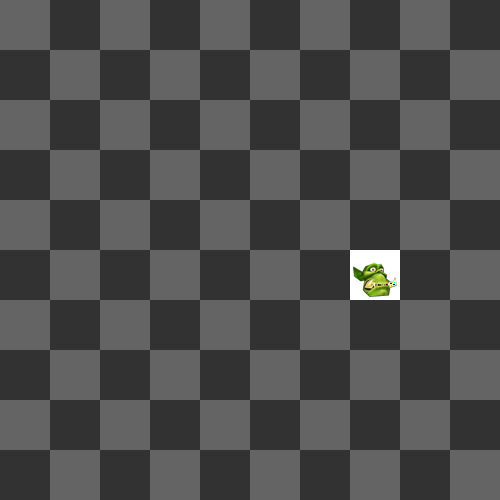
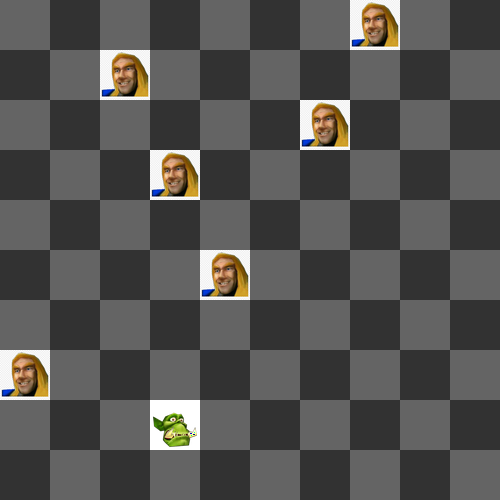
worked on drawing of the map

diff --git a/cmd/mapDrawer/mapDrawer.go b/cmd/mapDrawer/mapDrawer.go
@@ -2,39 +2,123 @@ package mapDrawer
 
 import (
 	"github.com/Frans-Lukas/checkerboard/cmd/constants"
+	"github.com/mattn/go-gtk/gdk"
+	"github.com/mattn/go-gtk/glib"
+	"github.com/mattn/go-gtk/gtk"
 	"github.com/nfnt/resize"
 	"image"
 	"image/color"
 	"image/draw"
 	"image/png"
 	"os"
+	"unsafe"
 )
 
 type MapInfo struct {
 	name string
 	draw.Image
+	gdkwin      *gdk.Window
+	drawingarea *gtk.DrawingArea
+	pixmap      *gdk.Pixmap
+	gc          *gdk.GC
 	sizeX       int
 	sizeY       int
-	playerImage image.Image
-	//clientImage draw.Image
 }
 
-func SetupMap(name string, sizeX int, sizeY int) MapInfo {
+func SetupMap(name string, sizeX int, sizeY int) *MapInfo {
 
 	newImage := image.NewRGBA(image.Rectangle{Min: image.Pt(0, 0), Max: image.Pt(sizeX, sizeY)})
 
-	f, err := os.Open(constants.PlayerImage)
-	if err != nil {
-		println("SetupMap: failed to load image: ", err.Error())
+	thisMap := MapInfo{name: name, Image: newImage, sizeX: sizeX, sizeY: sizeY}
+
+	///////////////////////////////////////////////////
+
+	gtk.Init(&os.Args)
+	window := gtk.NewWindow(gtk.WINDOW_TOPLEVEL)
+	window.SetTitle(name)
+	window.Connect("destroy", gtk.MainQuit)
+
+	vbox := gtk.NewVBox(true, 0)
+	vbox.SetBorderWidth(5)
+	thisMap.drawingarea = gtk.NewDrawingArea()
+
+	var p1, p2 gdk.Point
+	p1.X = -1
+	p1.Y = -1
+	colors := []string{
+		"black",
+		"gray",
+		"blue",
+		"purple",
+		"red",
+		"orange",
+		"yellow",
+		"green",
+		"darkgreen",
 	}
 
-	newPlayerImage, _, err := image.Decode(f)
-	newPlayerImage = resize.Resize(uint(sizeX/constants.MAP_SIZE), uint(sizeX/constants.MAP_SIZE), newPlayerImage, resize.Lanczos3)
-	if err != nil {
-		println("SetupMap: failed to decode image: ", err.Error())
-	}
+	thisMap.drawingarea.Connect("configure-event", func() {
+		if thisMap.pixmap != nil {
+			thisMap.pixmap.Unref()
+		}
+		allocation := thisMap.drawingarea.GetAllocation()
+		thisMap.pixmap = gdk.NewPixmap(thisMap.drawingarea.GetWindow().GetDrawable(), allocation.Width, allocation.Height, 24)
+		thisMap.gc = gdk.NewGC(thisMap.pixmap.GetDrawable())
+		thisMap.gc.SetRgbFgColor(gdk.NewColor("white"))
+		thisMap.pixmap.GetDrawable().DrawRectangle(thisMap.gc, true, 0, 0, -1, -1)
+		thisMap.gc.SetRgbFgColor(gdk.NewColor(colors[0]))
+		thisMap.gc.SetRgbBgColor(gdk.NewColor("white"))
+	})
 
-	return MapInfo{name: name, Image: newImage, sizeX: sizeX, sizeY: sizeY, playerImage: newPlayerImage}
+	thisMap.drawingarea.Connect("motion-notify-event", func(ctx *glib.CallbackContext) {
+		arg := ctx.Args(0)
+		mev := *(**gdk.EventMotion)(unsafe.Pointer(&arg))
+		var mt gdk.ModifierType
+		if mev.IsHint != 0 {
+			thisMap.gdkwin.GetPointer(&p2.X, &p2.Y, &mt)
+		} else {
+			p2.X, p2.Y = int(mev.X), int(mev.Y)
+		}
+		if p1.X != -1 && p2.X != -1 && (gdk.EventMask(mt)&gdk.BUTTON_PRESS_MASK) != 0 {
+			thisMap.pixmap.GetDrawable().DrawLine(thisMap.gc, p1.X, p1.Y, p2.X, p2.Y)
+			thisMap.gdkwin.Invalidate(nil, false)
+		}
+		colors = append(colors[1:], colors[0])
+		thisMap.gc.SetRgbFgColor(gdk.NewColor(colors[0]))
+		p1 = p2
+	})
+
+	thisMap.drawingarea.Connect("expose-event", func() {
+		thisMap.Redraw()
+	})
+
+	glib.TimeoutAdd(1000, thisMap.Redraw, thisMap.drawingarea)
+
+	thisMap.drawingarea.SetEvents(int(gdk.POINTER_MOTION_MASK | gdk.POINTER_MOTION_HINT_MASK | gdk.BUTTON_PRESS_MASK))
+	vbox.Add(thisMap.drawingarea)
+
+	window.Add(vbox)
+	window.SetSizeRequest(sizeX, sizeY)
+	window.ShowAll()
+
+	thisMap.gdkwin = thisMap.drawingarea.GetWindow()
+
+	go func() {
+		gtk.Main()
+	}()
+
+	return &thisMap
+}
+
+func (thisMap *MapInfo) Redraw() bool {
+	if thisMap.pixmap == nil {
+		return true
+	}
+	tmpImage := gtk.NewImageFromFile(thisMap.name + ".png")
+	thisMap.pixmap.GetDrawable().DrawPixbuf(thisMap.gc, tmpImage.GetPixbuf(), 0, 0, 0, 0, -1, -1, gdk.RGB_DITHER_NONE, 0, 0)
+	//gdkwin.GetDrawable().DrawDrawable(gc, &gdk.Drawable{GDrawable: newPlayerImage}, 0, 0, 0, 0, -1, -1)
+	thisMap.gdkwin.GetDrawable().DrawDrawable(thisMap.gc, thisMap.pixmap.GetDrawable(), 0, 0, 0, 0, -1, -1)
+	return true
 }
 
 func (thisMap *MapInfo) ClearMap() {
@@ -59,12 +143,25 @@ func (thisMap *MapInfo) ClearMap() {
 	}
 }
 
-func (thisMap *MapInfo) DrawClient(posX int, posY int, isPlayer bool) {
+func (thisMap *MapInfo) DrawClient(posX int, posY int, imagePath string) {
 	startPoint := image.Pt(posX*(thisMap.sizeX/constants.MAP_SIZE), posY*(thisMap.sizeX/constants.MAP_SIZE))
-	if isPlayer {
-		r := image.Rectangle{Min: startPoint, Max: startPoint.Add(startPoint.Add(thisMap.playerImage.Bounds().Size()))}
-		draw.Draw(thisMap.Image, r, thisMap.playerImage, thisMap.playerImage.Bounds().Min, draw.Src)
+
+	f, err := os.Open(imagePath)
+	if err != nil {
+		println("SetupMap: failed to load image: ", err.Error())
 	}
+
+	drawableImage, _, err := image.Decode(f)
+
+	if err != nil {
+		println("SetupMap: failed to decode image: ", err.Error())
+	}
+
+	drawableImage = resize.Resize(uint(thisMap.sizeX/constants.MAP_SIZE), uint(thisMap.sizeX/constants.MAP_SIZE), drawableImage, resize.Lanczos3)
+
+	r := image.Rectangle{Min: startPoint, Max: startPoint.Add(startPoint.Add(drawableImage.Bounds().Size()))}
+	draw.Draw(thisMap.Image, r, drawableImage, drawableImage.Bounds().Min, draw.Src)
+
 }
 
 func (thisMap *MapInfo) SaveMapAsPNG() {
@@ -73,4 +170,6 @@ func (thisMap *MapInfo) SaveMapAsPNG() {
 		println("SaveMapAsPNG: ", err.Error())
 	}
 	png.Encode(file, thisMap.Image)
+
+	gtk.EventsPending()
 }

diff --git a/cmd/client/gameDemo.go b/cmd/client/gameDemo.go
@@ -56,7 +56,7 @@ var thisPlayer = objects.NewPlayer(constants.SplitCellRequirement, constants.Spl
 
 var isBot = true
 
-var playersMap = mapDrawer.MapInfo{}
+var playersMap = &mapDrawer.MapInfo{}
 
 const PlayerObjectType = "player"
 
@@ -302,7 +302,14 @@ func readInput(input string) {
 
 func printMap(cellMaster *objects.Player) {
 	playersMap.ClearMap()
-	playersMap.DrawClient(int(thisPlayer.PosX), int(thisPlayer.PosY), true)
+
+	for _, player := range playerList {
+		if player.objectId != thisPlayer.ObjectId {
+			playersMap.DrawClient(int(player.posX), int(player.posY), constants.ClientImage)
+		}
+	}
+	playersMap.DrawClient(int(thisPlayer.PosX), int(thisPlayer.PosY), constants.PlayerImage)
+
 	playersMap.SaveMapAsPNG()
 
 	for row := 0; row < constants.MAP_SIZE; row++ {

diff --git a/cmd/constants/constants.go b/cmd/constants/constants.go
@@ -10,5 +10,6 @@ const SplitCellInterval = 3
 const MergeAgeRequirement = 30
 const ClientImage = "client.png"
 const PlayerImage = "player.png"
+const IconSize = 50
 const AliveCheckInterval = 5
 const DialTimeoutMilli = 100
